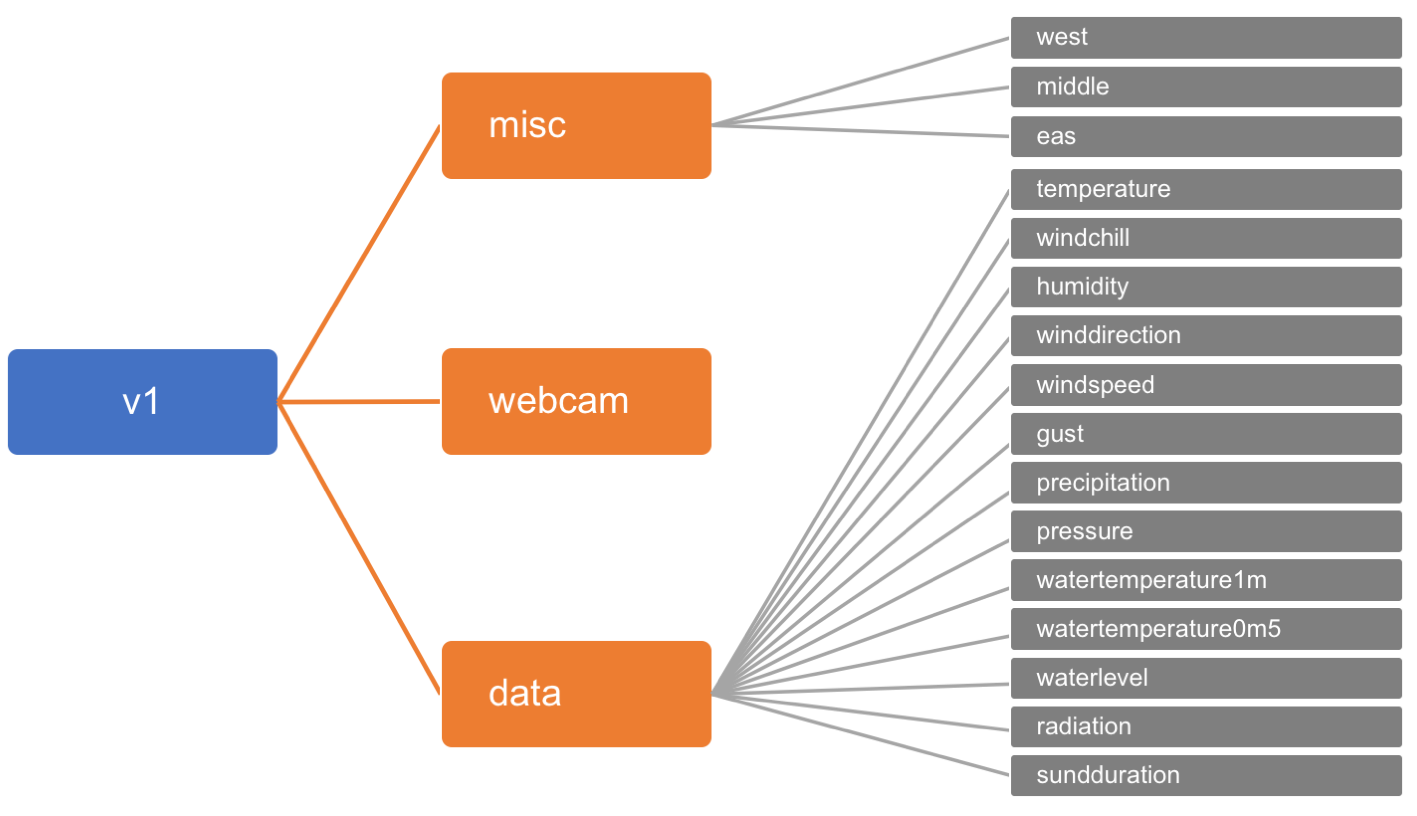
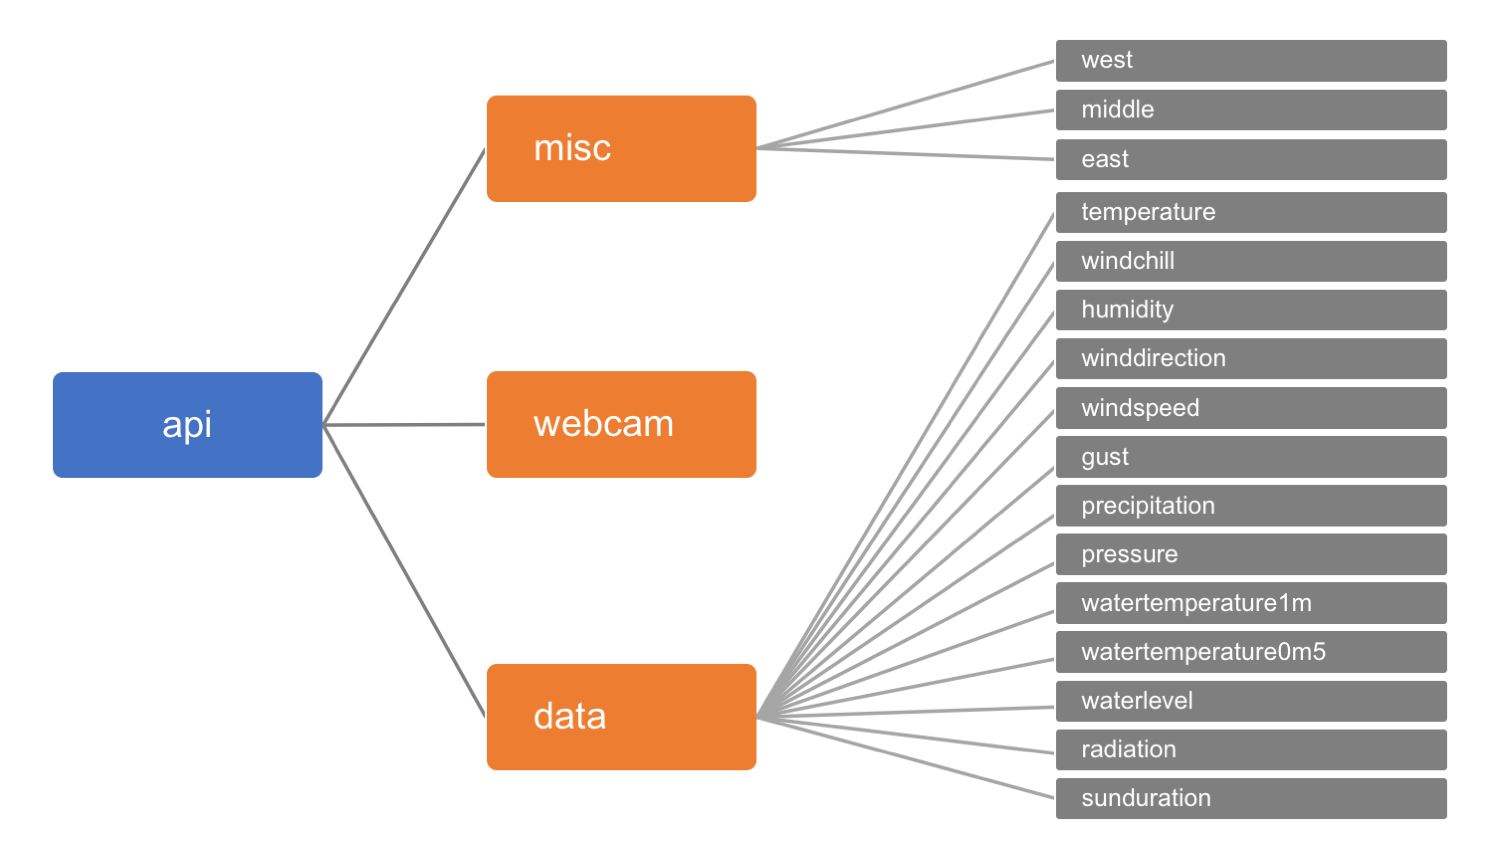
Doku: API-Nutzwertanalyse hinzugefügt

Changed region(s): [[0.0, 0.0, 0.9936, 0.9804], [0.2795, 0.7353, 0.4968, 0.9191]]

diff --git a/doku/API.tex b/doku/API.tex
@@ -9,13 +9,26 @@ Die Webseite der Wetterstation bietet den interessierten Personen Informationen 
 	\label{img:humanvsmachine}
 \end{figure}
 
-
-
 %% ############################################################################
 %% Unterkapitel
 %% ############################################################################
-\subsection{Unterteilung der Daten zu logischen Einheiten}
+\subsection{Konzipierung und Design der API}
+% muss erweiterbar sein
+% intuitiv
+% einfach
+% kurze URL
+% DE oder EN?
+
+
+\subsubsection{Hierarchische Gliederung der Daten}
 Die Programmierschnittstelle liefert die aktuellen Messwerte der Wetterstation, Zusatzinformationen, und Infos zur Webcam. Diese Unterteilung wurde bei der Strukturierung der Daten berücksichtigt.
+
+\begin{itemize*}
+\item
+\item
+\item
+\end{itemize*}
+
 Wie in Abbildung\,\ref{img:hierarchie} ersichtlich, stellt die Versionsnummer den Ausgangspunkt dar. Danach gibt es die drei Untergruppen misc, webcam und data. Unter data werden alle Informationen, die von der Wetterstation direkt oder indirekt gemessen werden angezeigt. Unter webcam ist der Link zu Webcam aufgeführt und unter misc sind die Zusatzinformation die Sturmwarndaten für die drei Region Bodensee Ost, Mittel und West aufgeführt. Die Struktur wurde so gewählt, dass sie logisch ist, sich beliebig erweitern lässt und die URL trotzdem möglichst kurz ist. Denn die URL entspricht genau dieser hierarchischen Datenstruktur. Um zum Beispiel die aktuellen Lufttemperatur zu erhalten muss folgende URL verwendet werden: \url{https://api.wetter-arbon.ch/v1/data/temperature}. Wenn mehrere Werte auf einmal abgefragt werden sollen, kann die URL eine oder zwei Stufen höher aufgerufen werden also zum Beispiel \url{https://api.wetter-arbon.ch/v1/data/} beziehungsweise \url{https://api.wetter-arbon.ch/v1/}. In diesem Fall werden jeweils alle Daten unterhalb der gewählten Hierarchiestufe ausgegeben.
 
 
@@ -29,10 +42,10 @@ Wie in Abbildung\,\ref{img:hierarchie} ersichtlich, stellt die Versionsnummer de
 % Hieraus wird auch die URL entstehen zur Abfrage der Daten. Der Aufruf wird Grundsätzlich über api.wetter-arbon.ch gemacht.
 % Um einzelne Werte abzufragen muss tiefer in die Verzeichnisse gegangen werden.
 
-%% ############################################################################
-%% Unterkapitel
-%% ############################################################################
-\subsection{Anwendung des REST-Prinzips}
+
+
+
+\subsubsection{Anwendung des REST-Prinzips}
 Heutzutage werden viele API nach dem REST-Prinzip\,\footnote{REST: Representational State Transfer} von Roy Fielding entwickelt. Der REST-Architekturstil bietet diverse Vorteile unter anderem bezüglich Skalierbarkeit und Sicherheit, wie in der \href{https://www.ics.uci.edu/~fielding/pubs/dissertation/top.htm}{Doktorarbeit}~\cite{Fielding:2000:ASD:932295} von Fielding nachzulesen ist. Eines der wichtigsten Prinzipen daraus ist die Zustandslosigkeit einer Anfrage. Das heisst jede Anfrage vom Client zum Server enthält alle notwendigen Informationen; auf dem Server muss nichts zwischengespeichert werden. REST verwendet zudem die von HTTP zur Verfügung gestellten Methoden\cite{LornaJaneMitchell2013oreilly}. Bei der Wetterstation wird nur die GET-Methode verwendet, da die API der Wetterstation sozusagen ein read-only-Dienst darstellt. Eine Server-Anfrage sieht dann zum Beispiel so aus wie in Listing\,\ref{lst:apirequest}.
 \Diskussionspunkt{Was passiert bei POST-Aufruf?}
 
@@ -44,16 +57,14 @@ Cache-Control:  no-cache
 \end{lstlisting}
 \vspace{3mm}
 
-%% ############################################################################
-%% Unterkapitel
-%% ############################################################################
-\subsection{Versionierung}
+
+\subsubsection{Semantische Versionierung}
 Versionsnummern unterscheiden einzelne Versionen einer Software, um deren Weiterentwicklungen nachvollziehbar zu kennzeichnen. Die Versionsnummer der API ist beim Aufrufen der oberste Hierarchiestufe sichtbar, siehe Listing\,\ref{lst:versionierung}. Angewendet wird dabei die semantische Versionierung\footnote{\url{https://semver.org}}. Diese teilt die Versionsnummer in folgende drei Bereiche auf: MAJOR.MINOR.PATCH, wobei die drei Bereich unterschiedliche Bedeutungen haben:
 
 \begin{description*}
   \item[MAJOR] Neuerungen hinzugefügt; inkompatibel mit Vorversion
-  \item[MINOR] Funktionen hinzugefügt; rückwärtskompatibel
-  \item[PATCH] Fehler behoben; rückwärtskompatibel
+  \item[MINOR] Funktionen hinzugefügt; kompatibel mit Vorversion
+  \item[PATCH] Fehler behoben; kompatibel mit Vorversion
 \end{description*}
 
 \vspace{3mm}
@@ -80,27 +91,199 @@ und als Beispiel:\\
 \Diskussionspunkt{evt. Erklärgrafik hinzufügen}
 
 
+\subsubsection{Auswahl des Response-Datenformats}
+Damit sich die Computer gegenseitig verstehen, ist es wichtig, dass die Kommunikation in einem standartisierten Datenformat erfolgt. Hier besteht die Möglichkeit zu wählen zwischen JSON, XML oder CSV. Es können auch andere Formate genutzt werden. Wichtig ist jedoch, dass der Server sowie der Client wissen welches Format genutzt wird. Der Server sendet deshalb im Header der Antwort die entsprechende Formatbezeichnung mit (zum Beispiel \texttt{ Content-Type: application/json}). Der Client kann im Header zwar angeben in welchem Format er die Antwort gerne hätte, der Server liefert aber unabhängig davon JSON zurück.
+
+Als Datenformat der API wurde JSON\footnote{JSON: Javascript Object Notation} gewählt, da es sich um ein simples und im Webbereich häufig eingesetztes Datenformat handelt, welches nicht viel Speicherplatz benötigt. Nebst der Lesbarkeit für Maschinen, kann es auch von Menschen einfach gelesen werden. Javascript beispielsweise handhabt JSON nativ und auch die Verwendung in PHP ist simpel, wie im Buch PHP Web Services \cite{LornaJaneMitchell2013oreilly} erwähnt wird. Eine JSON-Antwort mit sämtlichen Werten ist in Anhang Listing \ref{lst:JsonTree} dargestellt. Bei hierarchischen Datenstrukturen spricht man auch von einem Daten-Tree.
+
+
 
 %% ############################################################################
 %% Unterkapitel
 %% ############################################################################
-\subsection{Rückgabeformat}
-JSON vs. XML
-Verwendung auf der eigenen Webseite
+\subsection{Back end Architektur der API}
+% Rahmenbedingung: Serverseitige Programmiersprache ist eingeschränkt von Hostpoint auf .......
+% Warum wurde php gewählt?
+Für die API gibt es jedoch eine wichtige Bedingung. Sie muss in php geschrieben werden, da Hostpoint kein Javascript auf der Serverseite erlaubt.
 
- Neben der URL ist es wichtig, dass die Kommunikation in einem bestimmten Datenformat erfolgt. Hier besteht die Möglichkeit zu wählen zwischen JSON, XML oder CSV zu wählen. Es können auch andere Formate genutzt werden. Wichtig ist jedoch, dass der Server sowie der Client wissen welches Format genutzt wird. Nebst der Entwicklung für die Server-Client Kommunikation ist auch bei der API eine Zugangskontrolle bzw. eine Grundbasis in der Sicherheit notwendig. Neben der Möglichkeit HTTPS zu verwenden, ist es zusätzlich möglich den Client über einen sogenannten Authorization Token zu authentifizieren.\\
 
-Das Datenformat der API soll JSON sein. JSON ist ein simples Datenformat, welches nicht viel Speicherplatz benötigt und somit auch einfach Transferiert werden kann. Nebst der Lesbarkeit für Menschen, kann es auch von Maschinen gelesen werden. Javascript beispielsweise handhabt JSON nativ. Nebst dem das Javascript JSON versteht, ist auch die Handhabung bei PHP simpel, wie bei PHP Web Services \cite{LornaJaneMitchell2013oreilly} erwähnt wird.
 
-Um die API zu entwickeln, wurden die Anforderungen in einen sogenannten Daten-tree (siehe Anhang Listing \ref{lst:JsonTree}) umgeformt.
+\subsubsection{Auswahl des PHP-Frameworks anhand einer Nutzwertanalyse}
+% kostenlos
+% schnell
+% einfach und leicht verständlich
+% Mittels Nutzwertanalyse ausgewählt
+% Sollte es KO-Kriterien geben, werden diese bereits im Vorfeld der Nutzwertanalyse dazu genutzt, die Alternativen für den Vergleich einzuschränken.
 
-%% ############################################################################
-%% Unterkapitel
-%% ############################################################################
-\subsection{Technische Umsetzung der API}
+
+% https://www.quora.com/What-is-a-PHP-framework
+% https://www.quora.com/Where-can-I-learn-to-create-a-PHP-REST-API-without-using-a-framework
+% https://fachinformatiker-anwendungsentwicklung.net/nutzwertanalyse-in-der-projektdokumentation/
+
+% Nutzwertanalyse
+\begin{table}[htbp!]
+  \setlength\extrarowheight{3pt} % for a more "open" look
+  \begin{tabularx}{\textwidth}{|>{\RaggedRight\hspace{0pt}}p{3cm}|p{2.2cm}||p{2.2cm}|X|X|X|}
+
+  \hline
+  & \bfseries Gewichtung
+  & \bfseries \href{https://codeigniter.com}{CodeIgiter}
+  & \bfseries \href{https://www.slimframework.com}{Slim}
+  & \bfseries \href{https://lumen.laravel.com}{Lumen}
+  & \bfseries ohne\\
+
+  \hline
+  \textbf{Dokumentation}
+  & xx
+  & xx
+  & xx
+  & xx
+  & xx \\
+
+  \hline
+  \textbf{Langlebigkeit}
+  & xx
+  & xx
+  & xx
+  & xx
+  & xx \\
+
+  \hline
+  \textbf{Funktions-umfang}
+  & xx
+  & xx
+  & xx
+  & xx
+  & xx \\
+
+  \hline
+  \textbf{Stabilität und Sicherheit}
+  & xx
+  & xx
+  & xx
+  & xx
+  & xx \\
+
+  \hline
+  \textbf{Footprint}
+  & xx
+  & xx
+  & xx
+  & xx
+  & xx \\
+
+  \hline
+  \hline
+  \textbf{Total}
+  & xx
+  & xx
+  & xx
+  & xx
+  & xx \\
+
+  \hline
+  \textbf{gewichtet}
+  & xx
+  & xx
+  & xx
+  & xx
+  & xx \\
+
+  \hline
+  \end{tabularx}
+  \caption{Nutzwertanalyse der evaluierten php-Frameworks}
+  \label{table:php-framework} % label muss NACH caption stehen!!!!
+\end{table}
+
+
+\paragraph*{Kriterien für die Auswahl}
+Folgende Kriterien für die Auswahl des php-Frameworks wurden berücksichtigt:
+\begin{itemize*}
+\item Dokumentation und Einarbeitungszeit: Sind die Funktionen zentral und verständlich dokumentiert?
+\item Langlebigkeit: Läuft das Framework auch unter neuen PHP-Versionen?
+\item Funktionsumfang: Bietet das Framework Features, die ein produktives Entwickeln ermöglichen (Routing, Header, Response-Formatierung)?
+\item Stabilität und Sicherheit: Werden regelmässig Updates zur Verfügung gestellt?
+\item Footprint: Ist die Dateigrösse in einem verhältnismässigen Rahmen?
+\end{itemize*}
+
+
+
+
+\paragraph*{Gewichtung der Kriterien}
+% Gewichtung wird vor der Durchführung des eigentlichen Vergleichs festgelegt
+% Gewichtung der Kriterien muss in der Projektdokumentation begründet werden
+Die Gewichtungsskala für die Kriterien reicht von 1 (weniger wichtig) bis 4 (sehr wichtig). Für die Auswahl des php-Frameworks wurde folgende Gewichtung vorgenommen:
+
+\begin{itemize*}
+\item 4 Kenntnisstand: Da es sich um das Abschlussprojekt des Autors mit fester Zeitvorgabe handelt, ist besonders wichtig, dass die Sprache ihm bereits bekannt ist.
+\item 3 Testframeworks: Dem Unternehmen sind automatisierte Tests sehr wichtig und gerade bei Neuentwicklungen sind sie Pflicht.
+\item 3 Build-Prozess: Für moderne Konzepte wie Continuous Deployment muss gerade im Webumfeld eine Build-Pipeline vorhanden sein.
+\item 2 Funktionsumfang: Gerade im Webumfeld setzt das Unternehmen auf neue Technologien und möchte neue Entwicklungen zeitnah einsetzen.
+\item 1 Entwicklungsumgebung: Die IDE kann theoretisch durch einen guten Texteditor abgelöst werden. Daher ist dieses Kriterium nicht ganz so wichtig.
+\item 1 Langlebigkeit: Da es sich um eine Webanwendung handelt, die wahrscheinlich häufig an neue Möglichkeiten angepasst werden muss, ist die Langlebigkeit von geringerer Wichtigkeit.
+\end{itemize*}
+
+
+
+
+\paragraph*{Bewertungsskala für die Kriterien}
+% Skala mit erlaubten Punktwerten und exakte Begründung für die vergebene Punktzahl
+% kleine Skala verwenden z.B. 1 bis 3, und definiert exakt, wann welcher Wert vergeben wird.
+% unbedingt angegeben, welche Werte gut und welche schlecht sind
+
+Als mögliche Werte für die genannten Kriterien werden die Zahlen 1 (schlecht) bis 3 (gut) verwendet. Im Folgenden wird festgelegt, wann welcher Wert bei den einzelnen Kriterien vergeben wird.
+
+\begin{itemize*}
+\item Dokumentation und Einarbeitungszeit
+  \begin{enumerate*}
+  \item Keine zentrale Dokumentation vorhanden
+  \item Zentrale Dokumentation vorhanden, wenig ausführlich
+  \item Zentrale Dokumentation vorhanden, ausführlich und verständlich
+  \end{enumerate*}
+\item Langlebigkeit
+  \begin{enumerate*}
+  \item Keine Angabe, ob die neue PHP-Version (7.2) unterstützt wird
+  \item Neue PHP-Version (7.2) wird unterstützt
+  \item Neue PHP-Version werden durch regelmässige Updates unterstützt
+  \end{enumerate*}
+\item Funktionsumfang
+  \begin{enumerate*}
+  \item Keine zusätzlichen Funktionen verfügbar
+  \item Routineaufgaben sind als Funktionen verfügbar
+  \item Routineaufgaben sind als Funktionen verfügbar
+  \end{enumerate*}
+\item Stabilität und Sicherheit
+  \begin{enumerate*}
+  \item Wenig verwendet bzw. getestet
+  \item Vielverwendet, selten Updates
+  \item Vielverwendet mit regelmässigen Updates
+  \end{enumerate*}
+\item Footprint
+  \begin{enumerate*}
+  \item Grösser als 5MB
+  \item Zwischen 1...5MB
+  \item Kleiner als 1MB
+  \end{enumerate*}
+\end{itemize*}
+
+
+
+
+\paragraph*{Entscheidung für xxxx}
+% Nutzwert: stellt das Endergebnis der Nutzwertanalyse dar und repräsentiert die kumulierten bewerteten Kriterien der einzelnen Alternativen.
+% Letztlich müssen alle Koeffizienten mit denen der anderen Alternativen verglichen werden, um den Gewinner zu bestimmen
+% der einzelne Nutzwert ist nicht aussagekräftig, sondern muss immer ins Verhältnis zu den anderen Ergebnissen gesetzt werden
+
+
+\subsubsection{MVC-Entwicklungs-Pattern}
+- Was ist das MVC-Muster
+- Warum wird es bei Web
+- Warum ist es bei uns nicht nötig?
+
+
 Welche Möglichkeiten bietet PHP um dies möglichst einfach umzusetzen? Frameworks? Lösungsansätze
 Wie sieht das Funktionsprinzip des gewählten Lösungsansatzes aus?
- Für die API gibt es jedoch eine wichtige Bedingung. Sie muss in php geschrieben werden, da Hostpoint kein Javascript auf der Serverseite erlaubt.
+
 
 
 

diff --git a/doku/Bericht.tex b/doku/Bericht.tex
@@ -272,6 +272,11 @@
 \usepackage{placeins}
 \usepackage{geometry}
 
+% damit \paragraph{} als Titel angezeigt wird
+\usepackage[raggedright]{titlesec}
+\titleformat{\paragraph}[hang]{\normalfont\normalsize\bfseries}{\theparagraph}{1em}{}
+\titlespacing*{\paragraph}{0pt}{3.25ex plus 1ex minus .2ex}{0.5em}
+
 % für Titelblatt
 %\newcommand{\mydocumenttype}{Project thesis report}
 %  Beginn Dokument
